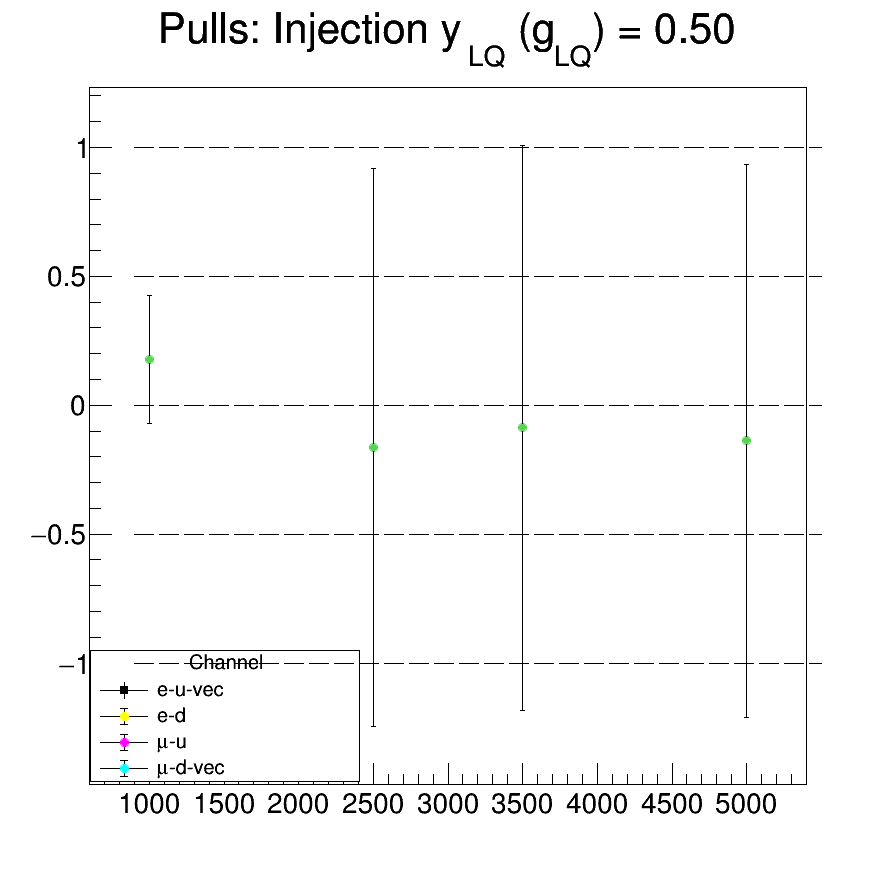
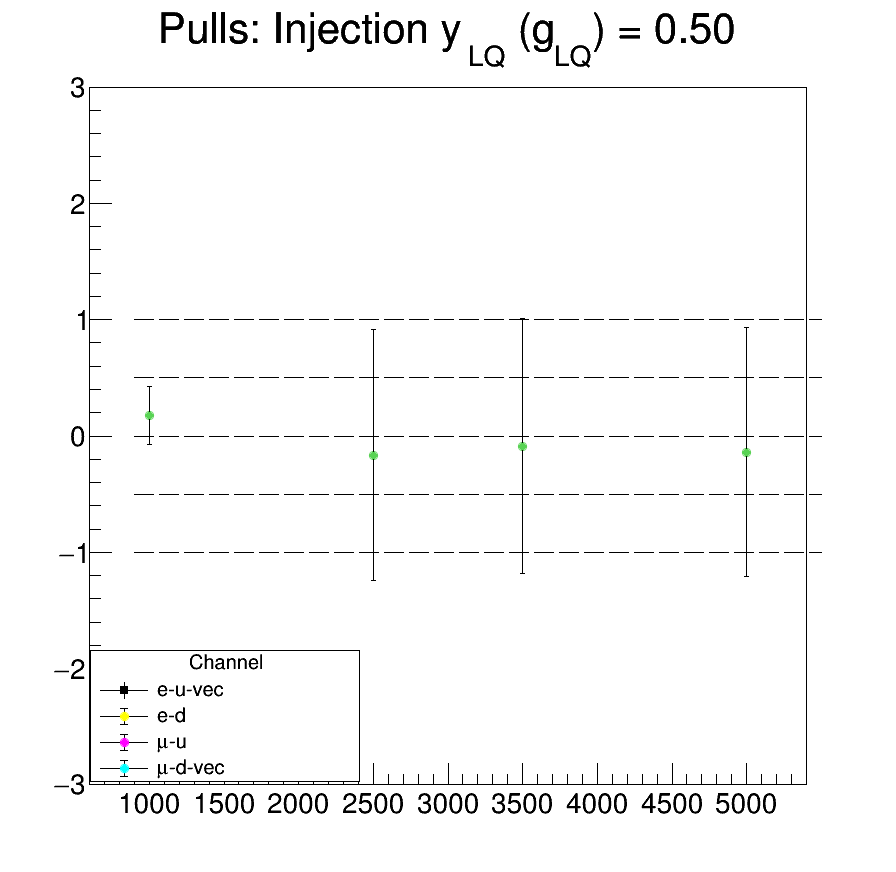
bias test summaries

diff --git a/analyze/combine/AFB_fits/scripts/LQ_do_bias_test.py b/analyze/combine/AFB_fits/scripts/LQ_do_bias_test.py
@@ -154,12 +154,15 @@ else:
         l5.SetLineStyle(9)
         mcolor = 5
 	i = 0
-	gr = []
+	gr, pull_mean, pull_sigma = [],[],[]
         for options.chan in ["ee","mumu"]:
             for options.q in ["u","d"]:
 
-	        pull_mean, pull_sigma, m_list = array("d"),array("d"),array("d")
-            
+	        #pull_mean, pull_sigma = [],[]
+		m_list = array("d")
+		pull_mean.append(array("d"))
+		pull_sigma.append(array("d"))
+                    
 	        for options.mLQ in [1000,2500,3500,5000]:
                 #for options.yLQ in [0.0,0.25,0.5]:
 
@@ -219,8 +222,8 @@ else:
                     fit_yLQ2= h_pull_yLQ2.GetFunction("gaus")
                     if(fit_yLQ2): fit_yLQ2.SetLineColor(kBlue)
                     h_pull_yLQ2.Draw()
-		    pull_mean.append(fit_yLQ2.GetParameter(1))
-		    pull_sigma.append(fit_yLQ2.GetParameter(2))
+		    pull_mean[i].append(fit_yLQ2.GetParameter(1))
+		    pull_sigma[i].append(fit_yLQ2.GetParameter(2))
                     if is_vec: 
                         h_pull_yLQ2.SetTitle("Signal Inject Test : Inject g_{%s %s} = %.1f (M_{LQ} = %.1f TeV); freeze: %s" % (chan_label,options.q,options.yLQ,options.mLQ/1000.,options.freezeGroups))
                         h_pull_yLQ2.GetXaxis().SetTitle("Pull g_{%s %s}^2"%(chan_label,options.q))
@@ -274,14 +277,14 @@ else:
 	        c4.cd()
 	        #draw the list of pulls for 1 channel
                 #print(m_list,pull_mean,[0,0,0,0],pull_sigma)
-	        gr.append(TGraphErrors(4, m_list, pull_mean, array("d",[0,0,0,0]), pull_sigma))
+	        gr.append(TGraphErrors(4, m_list, pull_mean[i], array("d",[0,0,0,0]), pull_sigma[i]))
                 gr[i].SetTitle("Pulls: Injection y_{LQ} (g_{LQ}) = %.2f"%options.yLQ)
 	        gr[i].SetName('gr')
 	        gr[i].SetMarkerStyle(20);
 	        gr[i].SetMarkerColor(mcolor)
 	        leg.AddEntry('gr', chan_label+"-"+options.q+"%s"%("-vec" if is_vec else ""), 'lep') 
 	        gr[i].Draw("AP same")
-	        gr[i].GetYaxis().SetLimits(-3.,3.)
+	        gr[i].GetYaxis().SetRangeUser(-3.,3.)
                 mcolor+=1
 		i+=1
     
